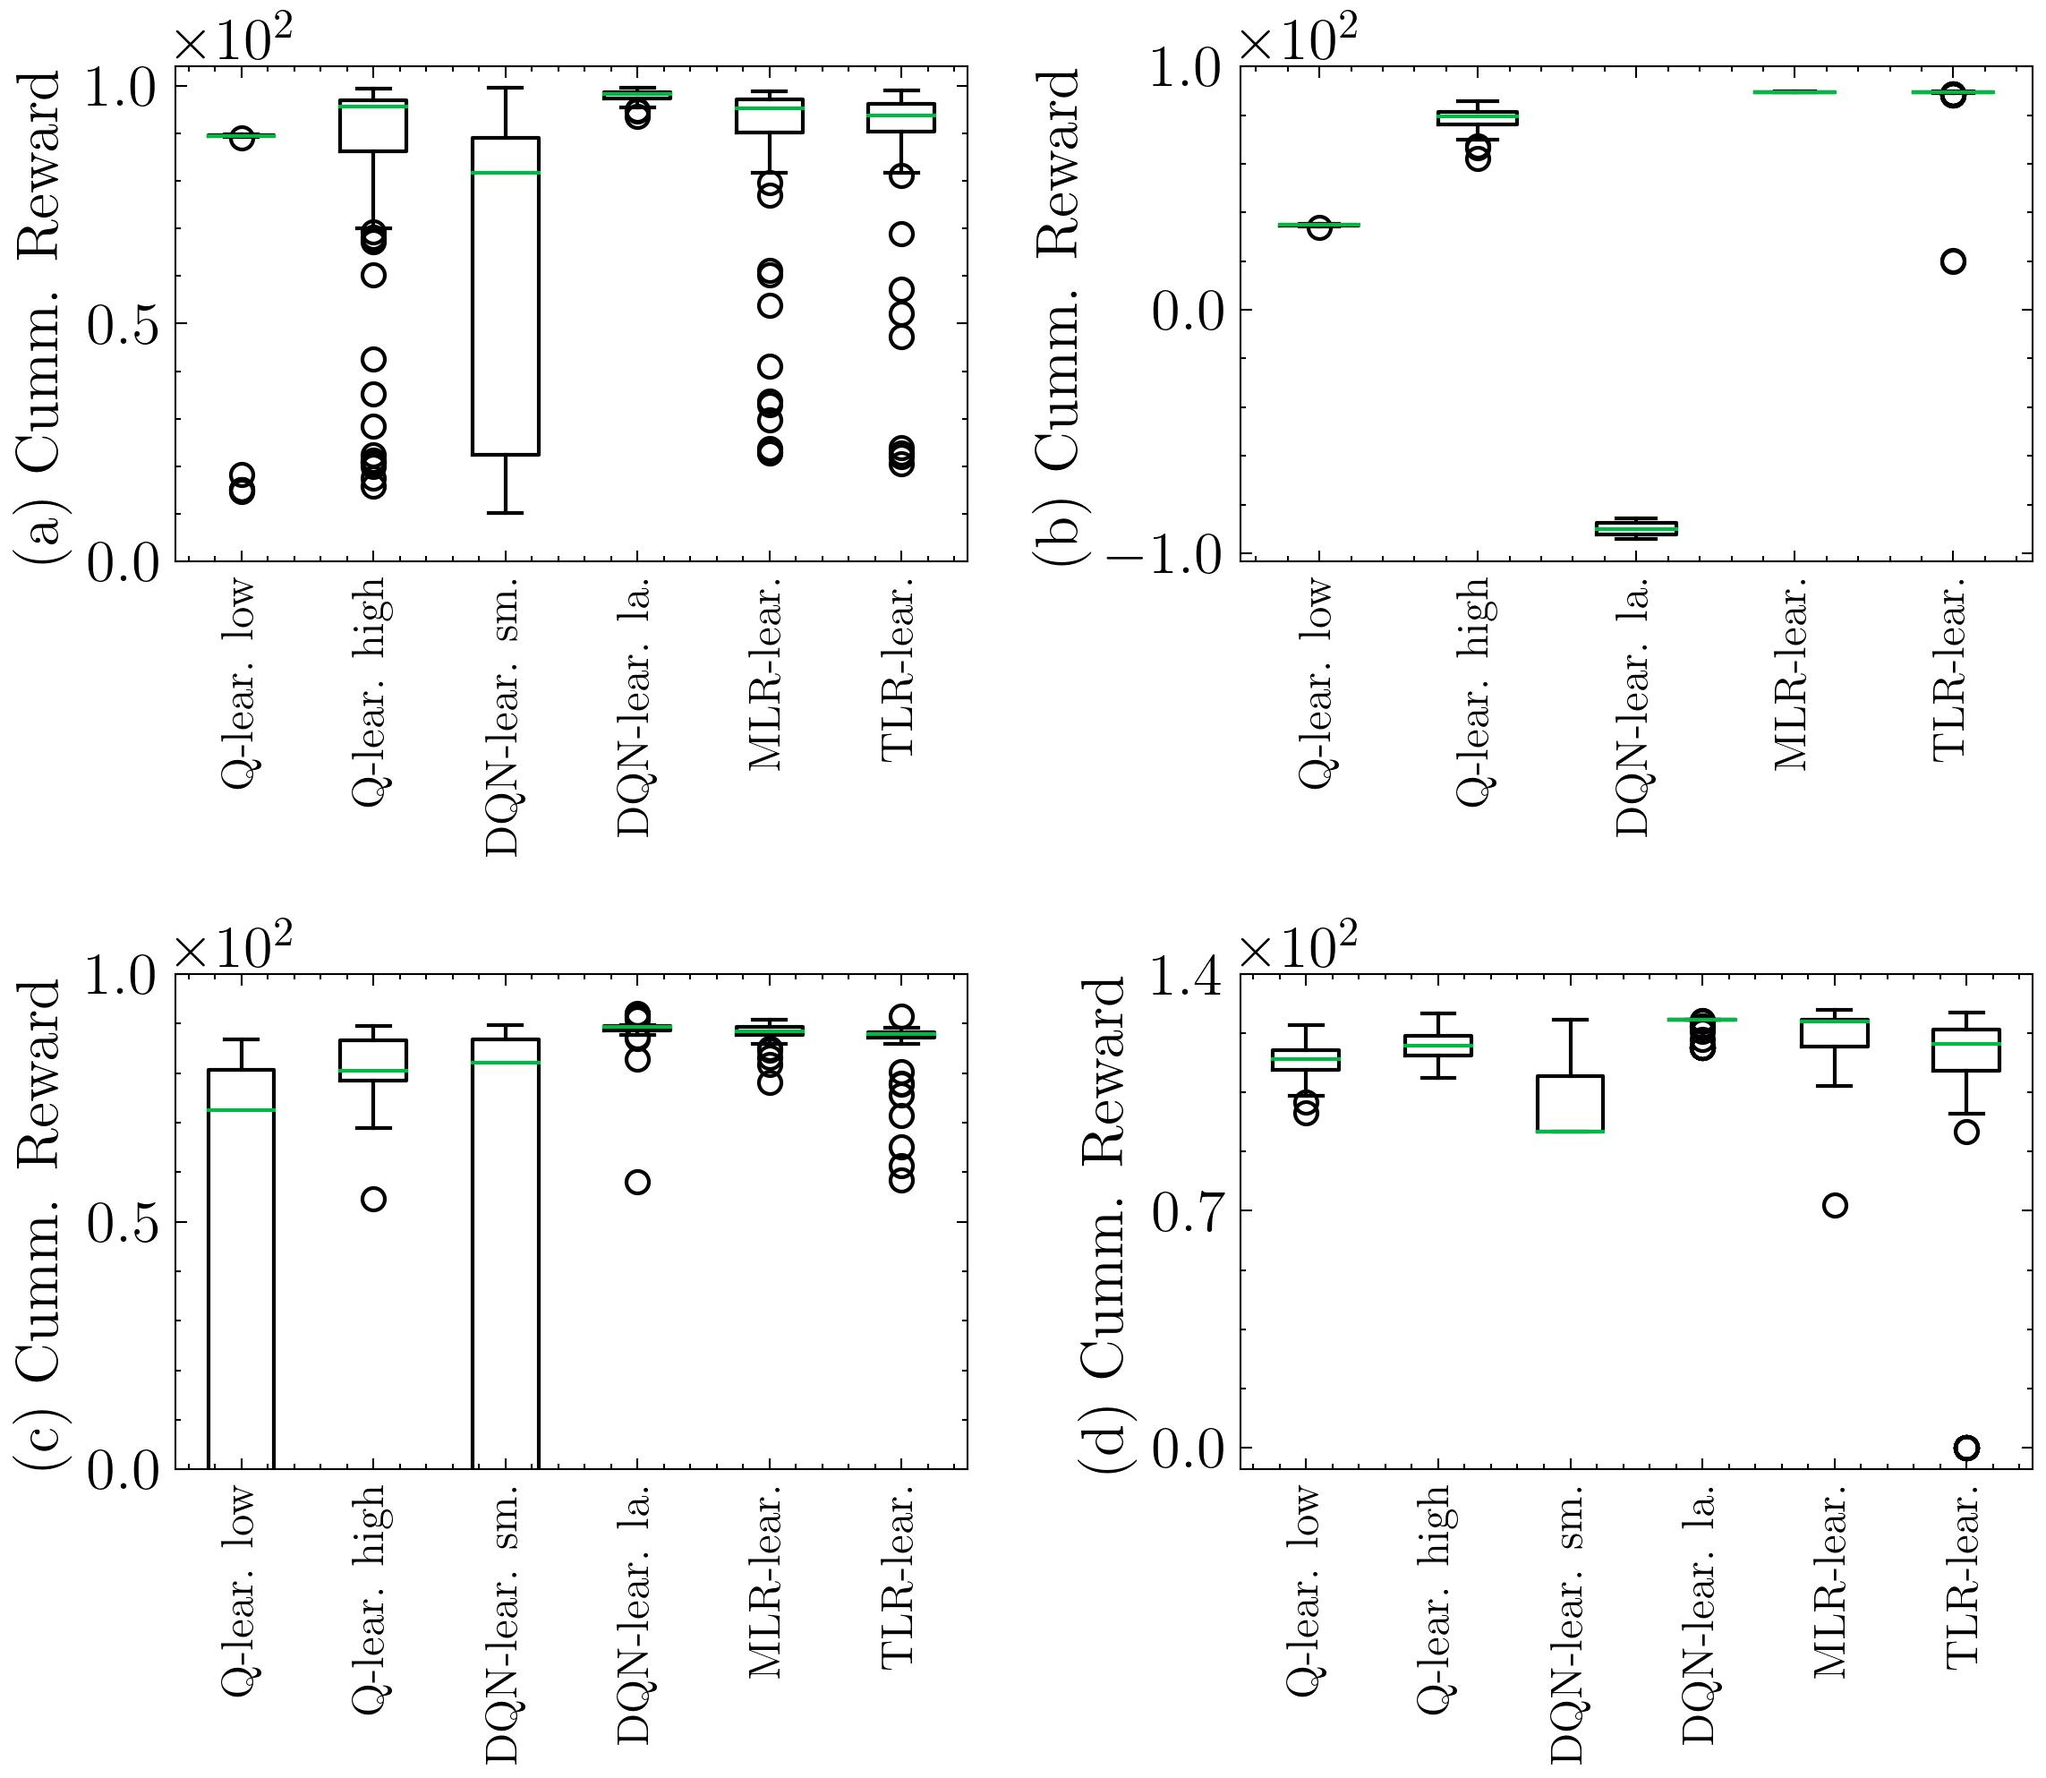
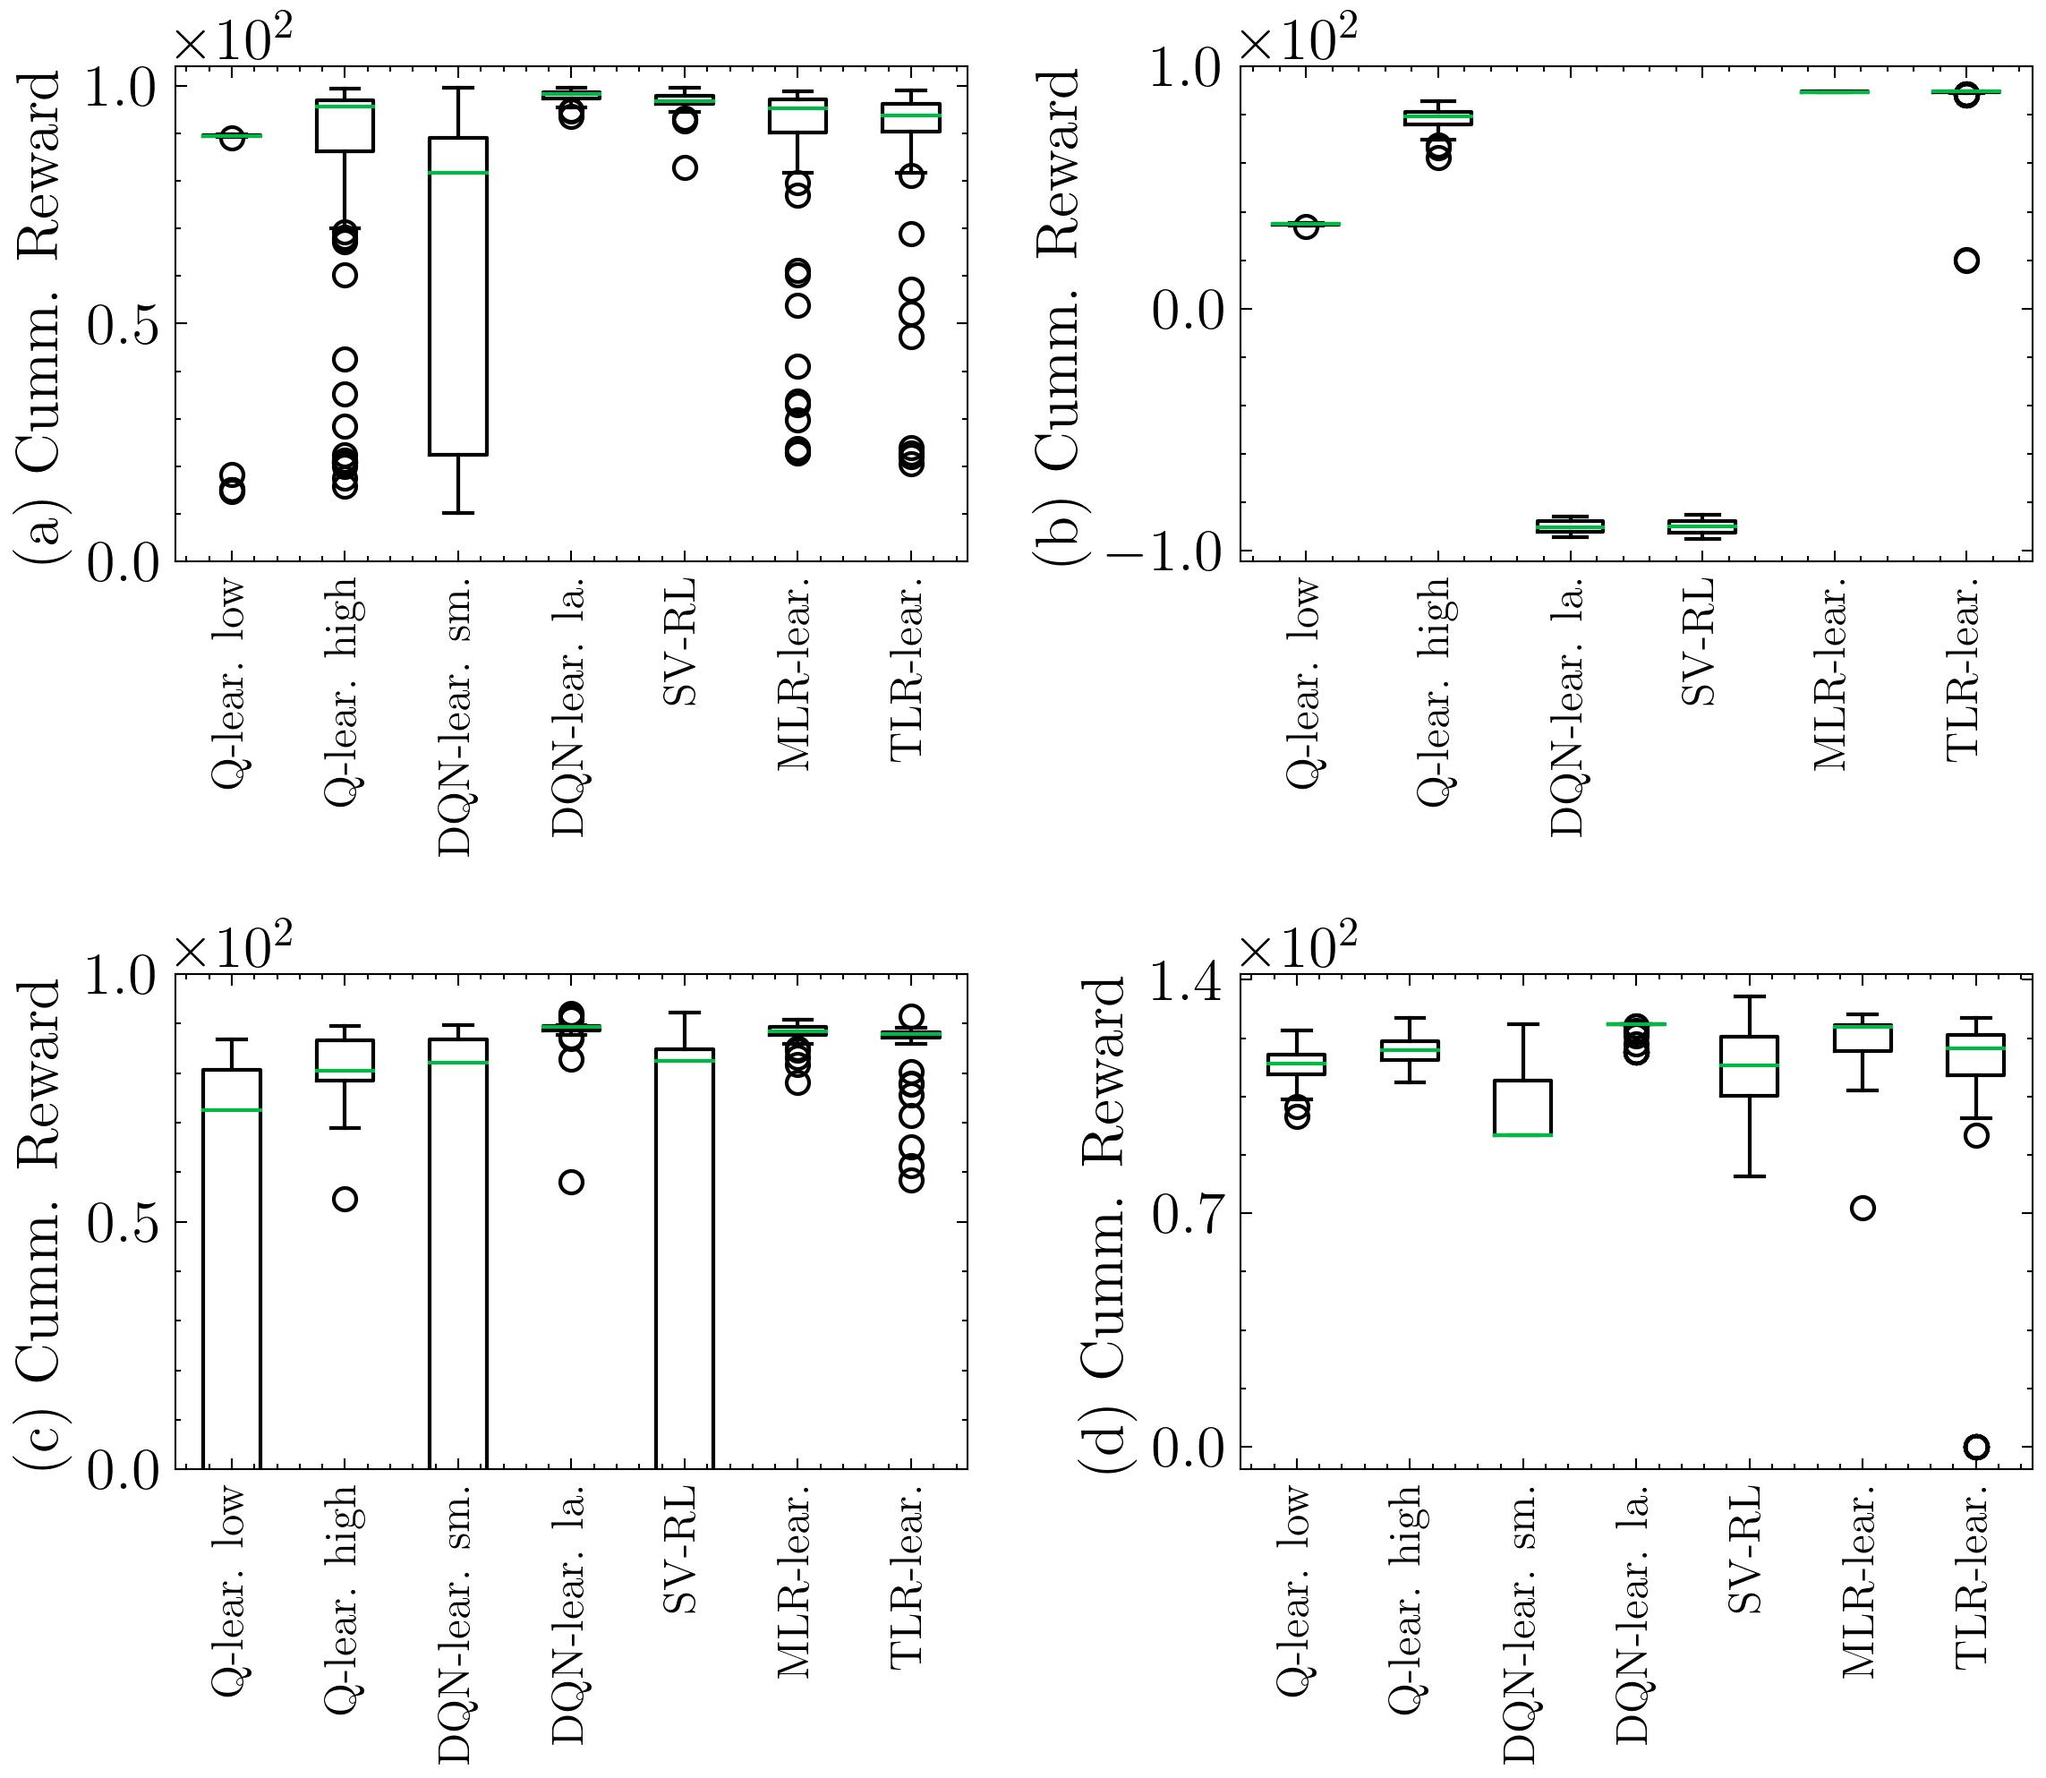
feature: scalability exp added

diff --git a/5_exp_methods_comparison.py b/5_exp_methods_comparison.py
@@ -22,6 +22,7 @@ N_NODES = 100
 
 
 if __name__ == "__main__":
+    """
     # Pendulum
     experiments = [f for f in os.listdir('parameters') if 'pendulum' in f and 'scale' not in f]
     experiments_done = [f for f in os.listdir('results') if 'pendulum' in f]
@@ -58,7 +59,7 @@ if __name__ == "__main__":
         print(name)
         experiment = Experiment(name, env_rocket, N_NODES)
         experiment.run_experiments(window=50)
-
+    """
     paths_pendulum = [f for f in os.listdir('results') if 'pendulum' in f]
     paths_cartpole = [f for f in os.listdir('results') if 'cartpole' in f]
     paths_mountaincar = [f for f in os.listdir('results') if 'mountaincar' in f]
@@ -69,6 +70,7 @@ if __name__ == "__main__":
         "Q-lear. high",
         "DQN-lear. sm.",
         "DQN-lear. la.",
+        "SV-RL",
         "MLR-lear.",
         "TLR-lear.",
     ]
@@ -85,6 +87,7 @@ if __name__ == "__main__":
         axes[0].plot(steps, json.load(open(prefix + 'q_learning_high.json', 'r'))['steps'], color='r')
         axes[0].plot(steps, json.load(open(prefix + 'dqn_learning_small_sample.json', 'r'))['steps'], color='orange')
         axes[0].plot(steps, json.load(open(prefix + 'dqn_learning_large_sample.json', 'r'))['steps'], color='k', )
+        axes[0].plot(steps, json.load(open(prefix + 'svrl.json', 'r'))['steps'], color='m', )
         axes[0].plot(steps, json.load(open(prefix + 'mlr_learning.json', 'r'))['steps'], color='g')
         axes[0].plot(steps, json.load(open(prefix + 'tlr_learning.json', 'r'))['steps'], color='y')
         axes[0].set_xlabel("Episodes", labelpad=4)
@@ -102,6 +105,7 @@ if __name__ == "__main__":
         axes[1].plot(steps, json.load(open(prefix + 'q_learning_low.json', 'r'))['steps'], color='b')
         axes[1].plot(steps, json.load(open(prefix + 'q_learning_high.json', 'r'))['steps'], color='r')
         axes[1].plot(steps, json.load(open(prefix + 'dqn_learning_large_sample.json', 'r'))['steps'], color='k')
+        axes[1].plot(steps, json.load(open(prefix + 'svrl.json', 'r'))['steps'], color='m')
         axes[1].plot(steps, json.load(open(prefix + 'mlr_learning.json', 'r'))['steps'], color='g')
         axes[1].plot(steps, json.load(open(prefix + 'tlr_learning.json', 'r'))['steps'], color='y')
         axes[1].set_xlabel("Episodes", labelpad=4)
@@ -120,6 +124,7 @@ if __name__ == "__main__":
         axes[2].plot(steps, json.load(open(prefix + 'q_learning_high.json', 'r'))['steps'], color='r')
         axes[2].plot(steps, json.load(open(prefix + 'dqn_learning_small_sample.json', 'r'))['steps'], color='orange')
         axes[2].plot(steps, json.load(open(prefix + 'dqn_learning_large_sample.json', 'r'))['steps'], color='k')
+        axes[2].plot(steps, json.load(open(prefix + 'svrl.json', 'r'))['steps'], color='m')
         axes[2].plot(steps, json.load(open(prefix + 'mlr_learning.json', 'r'))['steps'], color='g')
         axes[2].plot(steps, json.load(open(prefix + 'tlr_learning.json', 'r'))['steps'], color='y')
         axes[2].set_xlabel("Episodes", labelpad=4)
@@ -138,6 +143,7 @@ if __name__ == "__main__":
         axes[3].plot(steps, json.load(open(prefix + 'q_learning_high.json', 'r'))['steps'], color='r')
         axes[3].plot(steps, json.load(open(prefix + 'dqn_learning_small_sample.json', 'r'))['steps'], color='orange')
         axes[3].plot(steps, json.load(open(prefix + 'dqn_learning_large_sample.json', 'r'))['steps'], color='k')
+        axes[3].plot(steps, json.load(open(prefix + 'svrl.json', 'r'))['steps'], color='m')
         axes[3].plot(steps, json.load(open(prefix + 'mlr_learning.json', 'r'))['steps'], color='g')
         axes[3].plot(steps, json.load(open(prefix + 'tlr_learning.json', 'r'))['steps'], color='y')
         axes[3].set_xlabel("Episodes", labelpad=4)
@@ -166,6 +172,7 @@ if __name__ == "__main__":
             json.load(open(prefix + 'q_learning_high.json', 'r'))['rewards'],
             json.load(open(prefix + 'dqn_learning_small_sample.json', 'r'))['rewards'],
             json.load(open(prefix + 'dqn_learning_large_sample.json', 'r'))['rewards'],
+            json.load(open(prefix + 'svrl.json', 'r'))['rewards'],
             json.load(open(prefix + 'mlr_learning.json', 'r'))['rewards'],
             json.load(open(prefix + 'tlr_learning.json', 'r'))['rewards'],
         ]
@@ -181,6 +188,7 @@ if __name__ == "__main__":
             json.load(open(prefix + 'q_learning_low.json', 'r'))['rewards'],
             json.load(open(prefix + 'q_learning_high.json', 'r'))['rewards'],
             json.load(open(prefix + 'dqn_learning_large_sample.json', 'r'))['rewards'],
+            json.load(open(prefix + 'svrl.json', 'r'))['rewards'],
             json.load(open(prefix + 'mlr_learning.json', 'r'))['rewards'],
             json.load(open(prefix + 'tlr_learning.json', 'r'))['rewards'],
         ]
@@ -197,6 +205,7 @@ if __name__ == "__main__":
             json.load(open(prefix + 'q_learning_high.json', 'r'))['rewards'],
             json.load(open(prefix + 'dqn_learning_small_sample.json', 'r'))['rewards'],
             json.load(open(prefix + 'dqn_learning_large_sample.json', 'r'))['rewards'],
+            json.load(open(prefix + 'svrl.json', 'r'))['rewards'],
             json.load(open(prefix + 'mlr_learning.json', 'r'))['rewards'],
             json.load(open(prefix + 'tlr_learning.json', 'r'))['rewards'],
         ]
@@ -214,6 +223,7 @@ if __name__ == "__main__":
             json.load(open(prefix + 'q_learning_high.json', 'r'))['rewards'],
             json.load(open(prefix + 'dqn_learning_small_sample.json', 'r'))['rewards'],
             json.load(open(prefix + 'dqn_learning_large_sample.json', 'r'))['rewards'],
+            json.load(open(prefix + 'svrl.json', 'r'))['rewards'],
             json.load(open(prefix + 'mlr_learning.json', 'r'))['rewards'],
             json.load(open(prefix + 'tlr_learning.json', 'r'))['rewards'],
         ]

diff --git a/src/experiments/experiments.py b/src/experiments/experiments.py
@@ -321,6 +321,46 @@ class ExperimentScale:
             prioritized_experience=self.parameters['prioritized_experience'],
         ) for _ in range(self.nodes)]
 
+    def _get_svrl_models(self, architecture):
+        model_online = Mlp(
+            len(self.parameters['bucket_states']),
+            architecture,
+            self.discretizer.n_actions[0]
+        )
+
+        model_target = Mlp(
+            len(self.parameters['bucket_states']),
+            architecture,
+            self.discretizer.n_actions[0]
+        )
+
+        model_target.load_state_dict(model_online.state_dict())
+
+        if self.parameters['prioritized_experience']:
+            buffer = PrioritizedReplayBuffer(self.parameters['buffer_size'], 1.0)
+        else:
+            buffer = ReplayBuffer(self.parameters['buffer_size'])
+
+        return [Svrl(
+            env=self.env,
+            discretizer=self.discretizer,
+            model_online=model_online,
+            model_target=model_target,
+            buffer=buffer,
+            batch_size=self.parameters['batch_size'],
+            episodes=self.parameters['episodes'],
+            max_steps=self.parameters['max_steps'],
+            epsilon=self.parameters['epsilon'],
+            alpha=self.parameters['alpha'],
+            gamma=self.parameters['gamma'],
+            decay=self.parameters['decay'],
+            prioritized_experience=self.parameters['prioritized_experience'],
+            p_mask=self.parameters['p_mask'],
+            update_freq=self.parameters['update_freq'],
+            iter=self.parameters['iter'],
+            k=self.parameters['k'],
+        ) for _ in range(self.nodes)]
+
     def run_experiment(self, learner):
         learner.train(run_greedy_frequency=self.run_freq)
         return learner
@@ -352,7 +392,6 @@ class ExperimentScale:
             json.dump(results, f)
 
     def _run_mlr_experiments(self):
-        
         results = {
             'parameters': [],
             'reward': [],
@@ -427,6 +466,30 @@ class ExperimentScale:
         with open(f'results/{self.name}', 'w') as f:
             json.dump(results, f)
 
+    def _run_svrl_experiments(self):
+
+        results = {
+            'parameters': [],
+            'reward': [],
+            'reward_std': []
+        }
+
+        self.discretizer = self._get_discretizer(self.parameters['bucket_actions'])
+        for arch in self.parameters['arch']:
+            models = self._get_svrl_models(arch)
+
+            with Pool(self.nodes) as pool:
+                trained_models = pool.map(self.run_experiment, models)
+
+            rewards = [learner.mean_reward for learner in trained_models]
+            params = sum(arch)
+
+            results['parameters'].append(params)
+            results['rewards'].append(rewards)
+
+        with open(f'results/{self.name}', 'w') as f:
+            json.dump(results, f)
+
     def run_experiments(self):
         if self.parameters['type'] == 'q-model':
             self._run_q_experiments()
@@ -436,6 +499,8 @@ class ExperimentScale:
             self._run_tlr_experiments()
         elif self.parameters['type'] == 'dqn-model':
             self._run_dqn_experiments()
+        elif self.parameters['type'] == 'svrl-model':
+            self._run_svrl_experiments()
 
 
 class ExperimentHighway:
